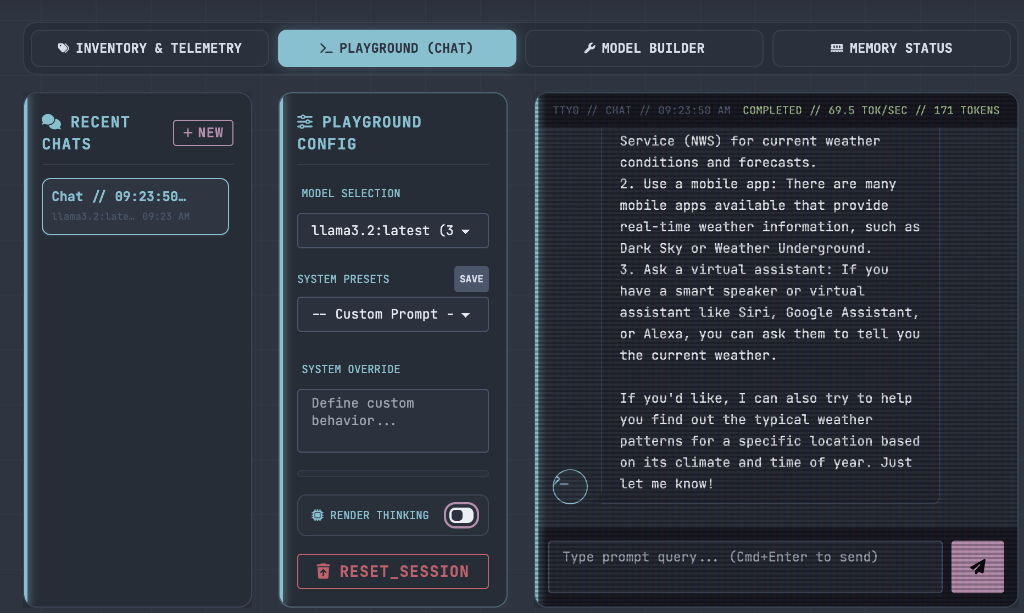
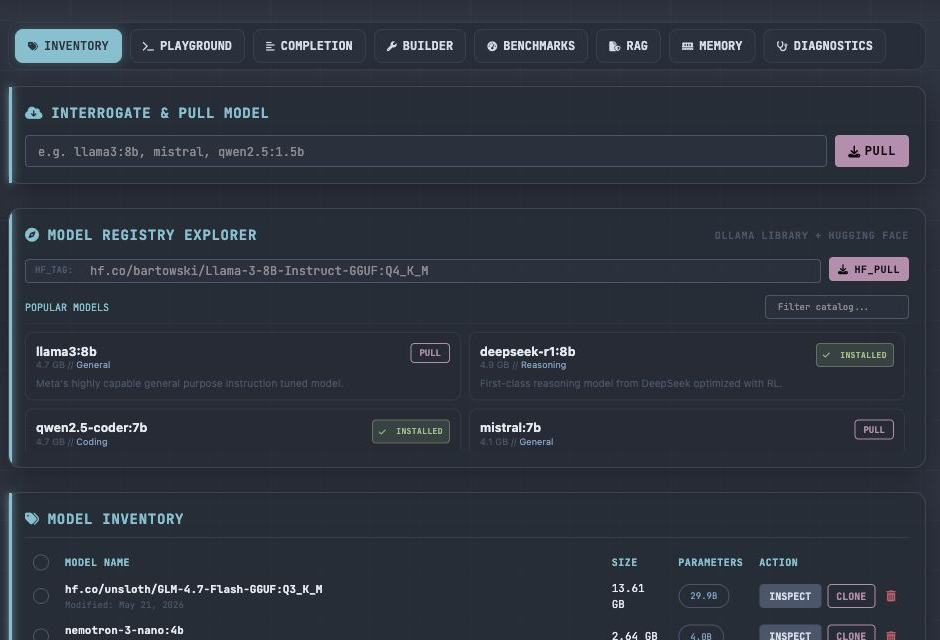
docs: refresh roadmap and readme screenshot
"Zoinks!"

diff --git a/Todo.md b/Todo.md
@@ -37,6 +37,67 @@
 - [x] **Hardware Thread & Layer Allocation Profile (num_gpu, num_thread)**
   - Expose request-level hardware tuning controls (such as GPU layers offload `num_gpu` and CPU threads `num_thread`) inside the playground sidebar settings.
 
+## v0.2.x Session Notes
+
+- [ ] **README Screenshot Refresh**
+  - Take a new screenshot of the current UI (accordion inspection panel, updated tab order, playground layout) and replace `static/img/screenshot.png`. Chrome extension was unavailable during v0.2.0 release.
+
+- [ ] **RAG Embedding Model Selector — Filter to Embedding Models Only**
+  - `rag-model-select` currently shows all Ollama models including chat/completion models. Selecting a chat model produces garbage or mismatched-dimension embeddings. Add filtering or at minimum label/group embedding models separately (detect by name: `embed`, `nomic`, `bge`, `mxbai`, `minilm`, etc.).
+
+- [ ] **RAG: Image-Only / Scanned PDF Handling**
+  - If PDF.js extracts empty or near-empty text (image-based PDF, scanned book), the current error "No extractable text found" is a dead end. Add a note in the UI suggesting the user convert via OCR first (e.g. `ocrmypdf`), and consider auto-detecting the scenario by checking if `text.length < 100` despite `numPages > 1`.
+
+- [ ] **RAG: Large Document Batching**
+  - For very large documents (500+ chunks), consider batching the embed call into groups of 100-200 chunks and posting them sequentially rather than one massive payload, with per-batch progress updates. Reduces peak memory pressure on Ollama and gives finer-grained progress.
+
+- [ ] **RAG Collection Manager (filtering & re-indexing)**
+  - Per-document re-indexing, embedding dimension mismatch checks on query (querying with a different model than was used to index), duplicate detection, and per-collection filters so chat RAG can target specific document sets rather than all indexed docs.
+
+- [ ] **Memory Telemetry: Real Remote VRAM Monitoring**
+  - Ollama's `/api/ps` exposes loaded model sizes but not total GPU VRAM capacity or utilization. The VRAM progress bars currently scale against the NEUROLLAMA host machine's RAM which is meaningless for remote servers.
+  - Options to explore: (a) let users manually enter total VRAM per registered server so bars are meaningful, (b) add an optional companion lightweight agent on the remote host that exposes `nvidia-smi` stats via a tiny HTTP endpoint, (c) poll Ollama's `/api/version` for any future GPU stats endpoint they add.
+
+- [ ] **Context Window: Model-Aware Validation**
+  - The context selects now go up to 100M but have no awareness of what the selected model actually supports. Add a soft warning when the chosen context exceeds the model's `context_length` from its details (already available in model metadata). Prevents confusing silent failures when Ollama silently clamps the value.
+
+- [ ] **PDF.js: Self-Host Worker Instead of CDN**
+  - Worker script is loaded from `cdnjs.cloudflare.com` at runtime. If the CDN is unreachable (airgapped installs, strict firewalls) PDF upload silently breaks. Vendor `pdf.worker.min.js` into `static/js/` and update the `workerSrc` path. The main `pdf.min.js` would also need to be vendored or loaded locally.
+
+- [ ] **Cold-Start Timeout Audit**
+  - Fixed the 10-second timeout for RAG embedding calls. Audit other operations that use `c.HTTPClient` directly (non-streaming model calls, unload, copy) and confirm they either already use a long client or are fast enough that 10s is safe. Model `copy` in particular can be slow for large models.
+
+## Code Review Follow-Up
+
+- [ ] **Local Auth & Safer Network Binding**
+  - Add optional password/API-key protection for the web UI and API routes.
+  - Make the bind host configurable and default local installs to `127.0.0.1` instead of listening on all interfaces.
+  - Update Docker examples to publish `127.0.0.1:8080:8080` by default, with explicit reverse-proxy guidance for public deployments.
+
+- [ ] **Stored XSS Hardening Pass**
+  - Escape or DOM-build all user/server/model/chat/RAG values before rendering them into `innerHTML`.
+  - Prioritize server registry cards, model inventory rows, chat history rows, benchmark/optimizer tables, scheduler logs, RAG document/query output, and upload logs.
+  - Add a small safe-render helper so future table/card templates do not accidentally interpolate raw values.
+
+- [ ] **Auto-Compression Current-Turn Fix**
+  - When auto-compressing, summarize older history but preserve the current user message in the request sent to Ollama.
+  - Add a regression test that proves an over-budget chat still sends both the generated summary and the latest user prompt.
+
+- [ ] **RAG Scaling & Query Performance**
+  - Batch large embedding jobs instead of sending all chunks in one request.
+  - Avoid loading every stored chunk into memory for every RAG query once collections grow.
+  - Store embedding dimensions and reject mismatched vectors before cosine similarity.
+  - Add collection/document filters so chat RAG can target a specific corpus instead of every document for an embedding model.
+
+- [ ] **Backend Refactor: Split Main Handlers by Domain**
+  - Move server registry, model inventory, chat, RAG, telemetry, scheduler, benchmark, optimizer, diagnostics, and model-card code into focused files.
+  - Keep route wiring simple in `main.go` and make each domain easier to test independently.
+
+- [ ] **Handler & Persistence Test Suite**
+  - Add `httptest` coverage for API handlers with a temporary SQLite database.
+  - Cover server CRUD, settings allowlist behavior, chat persistence, compression edge cases, RAG document lifecycle, and destructive model action validation.
+  - Add table tests for URL validation, model-name validation, auth header validation, parameter bounds, and cosine similarity mismatch handling.
+
 ## New Ideas From Code Review
 
 - [ ] **Preflight Diagnostics & Repair Console**
@@ -49,3 +110,86 @@
   - Add per-document re-indexing, source metadata, embedding dimension checks, duplicate detection, and collection-level filters so chat retrieval can target specific document sets.
 - [ ] **Streaming Resilience Toolkit**
   - Add cancel/retry controls, timeout visibility, larger-safe stream parsing, and saved failure diagnostics for chat, generate, pull, benchmark, optimizer, and model-build streams.
+
+- [ ] **Job & Activity Center**
+  - Track long-running pulls, model builds, benchmarks, optimizer runs, scheduler checks, and RAG indexing jobs in one activity panel.
+  - Add cancel/retry controls, overlap prevention, progress history, and clear terminal-style diagnostics for failed jobs.
+
+- [ ] **Backup / Export / Restore Center**
+  - Export and restore chats, presets, benchmarks, optimizer runs, settings, RAG document metadata, and server registry entries with secrets omitted by default.
+  - Add an explicit encrypted export option for users who want to include server credentials.
+
+- [ ] **Model-Aware Setup Assistant**
+  - Detect installed models, embedding-capable models, vision-capable models, and likely context limits.
+  - Recommend safe defaults for chat settings, RAG embedding model selection, and benchmark prompts based on local inventory.
+
+- [ ] **Ollama Web Search Integration**
+  - Add an optional web-search mode for chat that calls Ollama's hosted `web_search` API with a user-provided Ollama API key.
+  - Support manual search injection first: search query, result count, citations/sources panel, and "send selected results to chat".
+  - Add optional `web_fetch` support for fetching a selected result page and injecting a summarized page excerpt.
+  - Later, explore agent/tool mode where compatible models can decide when to call `web_search` and `web_fetch`.
+  - Keep it off by default, show when external network calls are happening, store the API key as a secret, and enforce result-size/context-budget limits.
+
+- [ ] **Model Capability Badges**
+  - Show compact badges/icons in model lists and selectors for known capabilities such as chat/completion, vision, embeddings, thinking, tools, web search available, and web fetch available.
+  - Pull first-party capabilities from `/api/show` when available, including Ollama's `capabilities` field and model metadata such as context length.
+  - Treat `web_search` and `web_fetch` as app-level tools that require an Ollama API key, then show a separate "tool-ready" indicator only for models that support tool calling well enough for agent mode.
+  - Add hover tooltips explaining whether a badge means native model capability, NEUROLLAMA app capability, or Ollama cloud/API-key capability.
+  - Cache capability checks so the inventory view does not spam `/api/show` for every refresh.
+
+## Security & Input Validation Backlog
+
+- [ ] **Central Request Validation Layer**
+  - Add shared validators for strings, IDs, URLs, model names, chat roles, auth types, settings keys, numeric sampler ranges, and request body sizes.
+  - Return consistent `400` responses with concise field-level messages instead of letting invalid values reach Ollama, SQLite, or template rendering.
+
+- [ ] **Server URL / SSRF Guardrails**
+  - Validate node URLs as `http` or `https`, disallow embedded credentials, trim trailing slashes consistently, and reject control characters.
+  - Add an optional "allow private networks" setting if the UI is ever exposed beyond localhost, since node testing/proxying can otherwise be abused to reach internal services.
+
+- [ ] **Auth Header Validation**
+  - Validate custom auth header names against HTTP token rules and block dangerous header names such as `Host`, `Content-Length`, `Transfer-Encoding`, and hop-by-hop headers.
+  - Limit auth secret lengths and make sure secrets never appear in logs, diagnostics, model-card output, or frontend state.
+
+- [ ] **Destructive Action Confirmation & Server-Side Validation**
+  - Require valid model names for delete, copy, unload, pull, create, benchmark, and optimizer endpoints.
+  - Add server-side confirmation tokens or short-lived nonces for destructive UI actions if authentication is added.
+  - Consider soft-locking bulk delete unless the selected active server is reachable and the model list was recently refreshed.
+
+- [ ] **Settings Key Allowlist**
+  - Restrict `/api/settings` updates to known keys such as `update_schedule`.
+  - Validate setting values (`off`, `daily`, `weekly`, etc.) before writing to SQLite.
+
+- [ ] **Request Size & Payload Limits**
+  - Set maximum request body sizes for chat, generate, image payloads, RAG document uploads, presets, server registry entries, and Modelfile builds.
+  - Add chunk count, chunk length, image size, base64 length, title length, preset length, and system prompt length limits.
+
+- [ ] **Chat Parameter Bounds**
+  - Server-side clamp or reject invalid `temperature`, `top_k`, `top_p`, `min_p`, penalties, `num_ctx`, `num_predict`, `num_gpu`, and `num_thread`.
+  - Align UI controls and backend validation so impossible values cannot be saved into chats.
+
+- [ ] **RAG Upload Safety**
+  - Enforce file type, extracted text length, chunk count, and per-document size limits.
+  - Detect near-empty scanned PDFs and show OCR guidance.
+  - Store document hashes to prevent accidental duplicate indexing.
+
+- [ ] **Model Card Proxy Hardening**
+  - Validate Hugging Face repo names and Ollama library names before building outbound URLs.
+  - Limit fetched model-card response size and content type.
+  - Prefer DOMPurify or a hardened sanitizer for rendered external Markdown/HTML, and keep raw view escaped.
+
+- [ ] **Security Headers & Dependency Locality**
+  - Add HTTP security headers such as `Content-Security-Policy`, `X-Content-Type-Options`, `Referrer-Policy`, and `Frame-Options`.
+  - Self-host Font Awesome, Marked, and PDF.js or add Subresource Integrity pins for CDN assets.
+
+- [ ] **CSRF / Origin Protections**
+  - If cookie-based login is added, protect mutating routes with CSRF tokens or same-site cookies plus origin checks.
+  - Reject unsafe cross-origin requests for destructive routes.
+
+- [ ] **Secret Storage Upgrade**
+  - Keep `servers.json` at `0600`, but add optional OS keychain or encrypted-at-rest storage for bearer tokens, passwords, and custom header values.
+  - Add a "rotate/test credentials" flow that does not expose saved secret values back to the browser.
+
+- [ ] **Concurrency Controls for Background Work**
+  - Prevent overlapping scheduler checks and manual update checks from pulling the same models simultaneously.
+  - Add per-job cancellation contexts and a visible job state machine.
